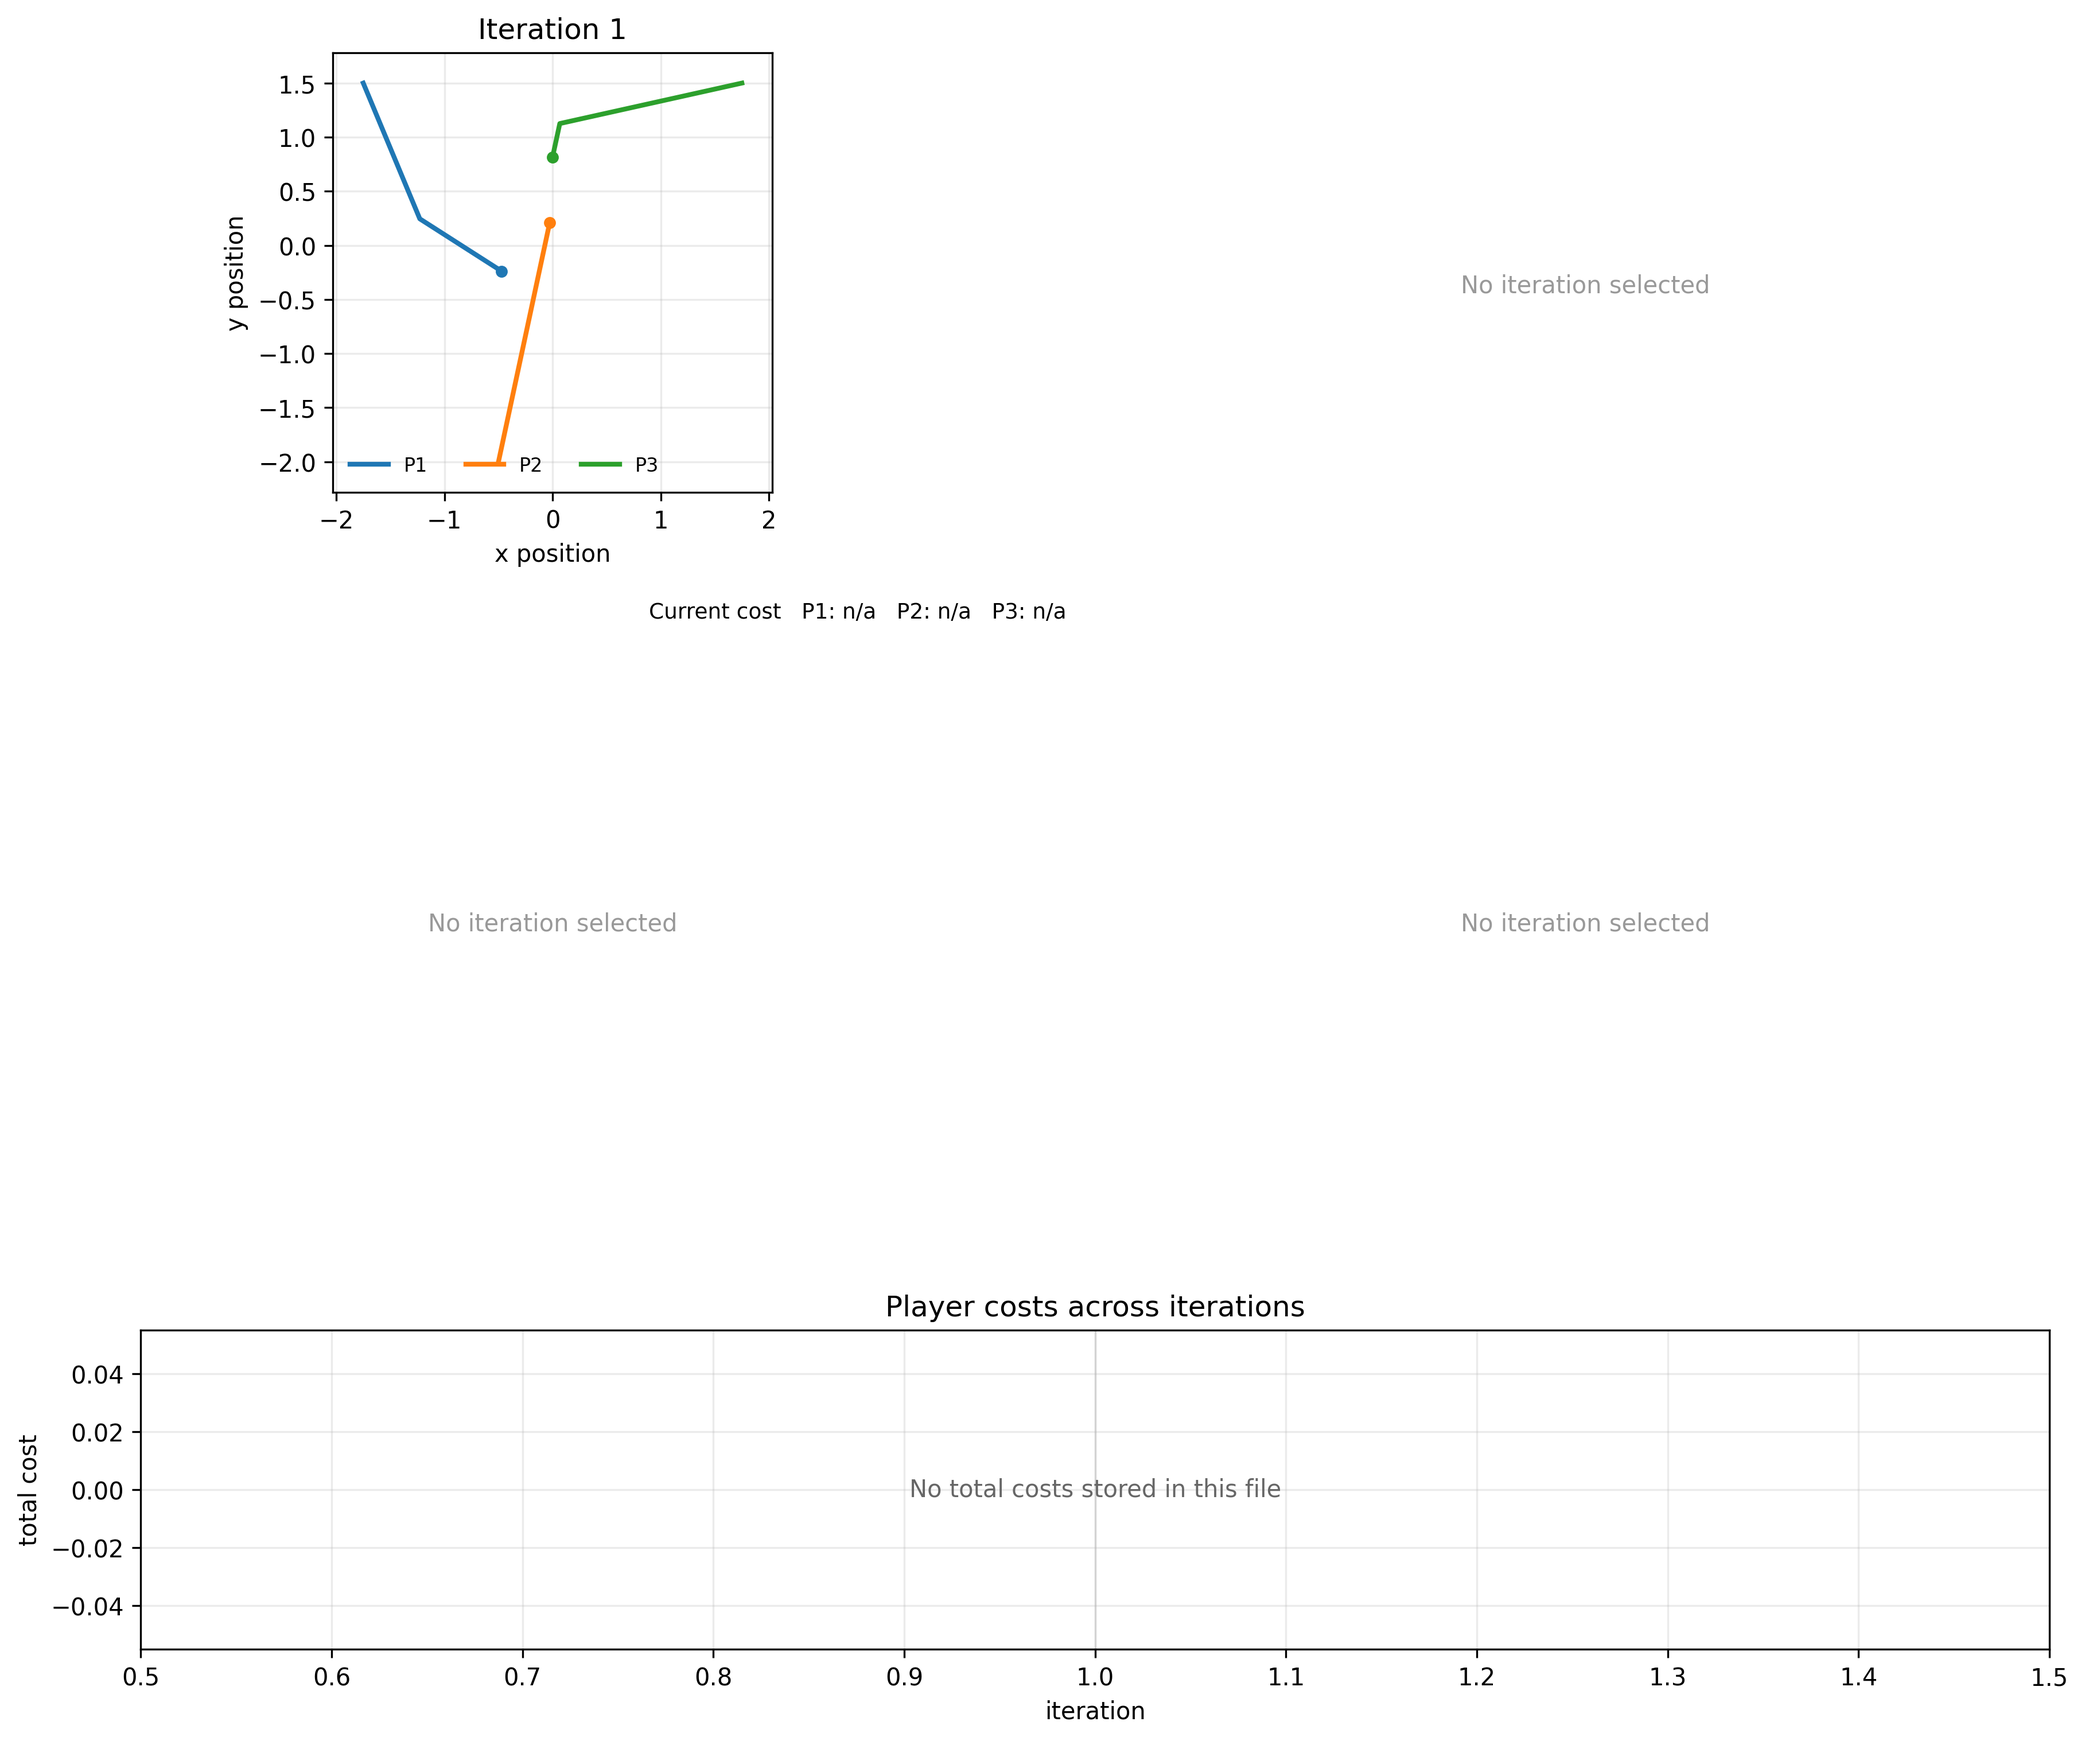
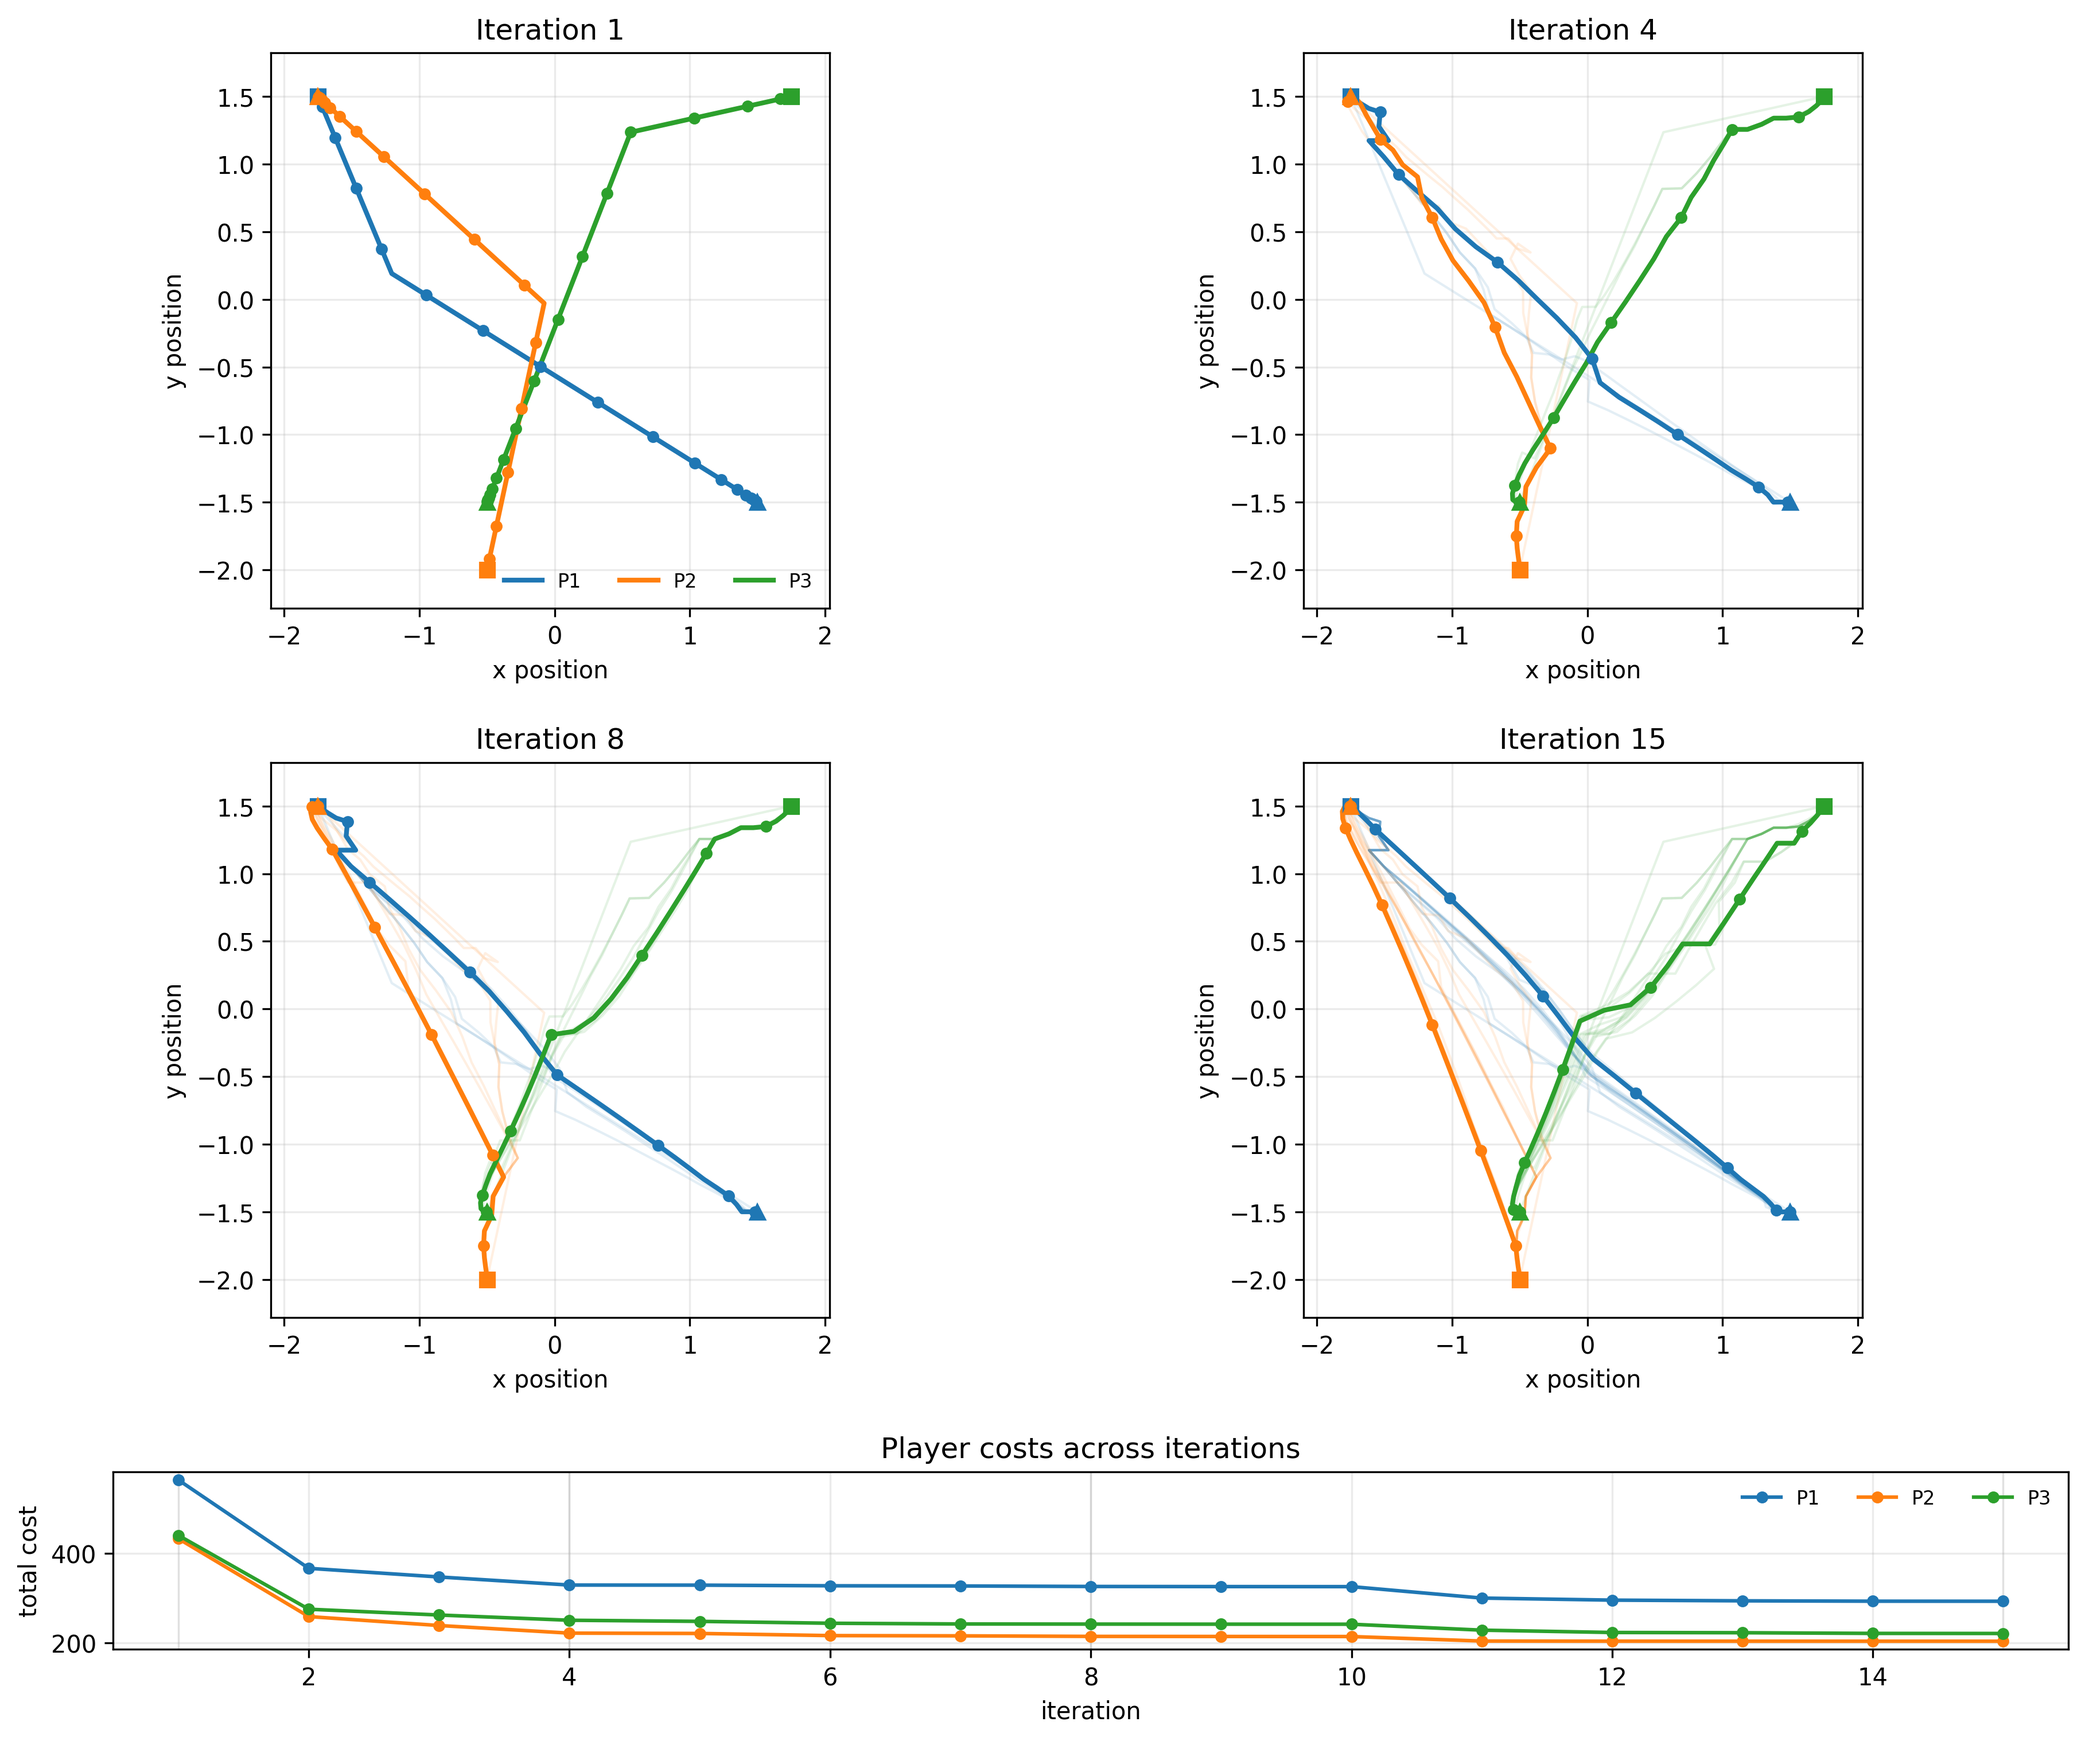
increase PATH iters

diff --git a/PlotLearnedIterations.py b/PlotLearnedIterations.py
@@ -12,6 +12,7 @@ import argparse
 from pathlib import Path
 
 import numpy as np
+import matplotlib.pyplot as plt
 from matplotlib.figure import Figure
 from matplotlib.ticker import MaxNLocator
 
@@ -73,14 +74,12 @@ def create_iteration_figure(learned_data, iterations, previous_alpha=0.12):
     lower, upper = positions.min(axis=0), positions.max(axis=0)
     padding = np.maximum(0.08 * (upper - lower), 0.1)
     figure = Figure(figsize=(12, 10), layout="constrained")
-    grid = figure.add_gridspec(3, 2, height_ratios=(1.0, 1.0, 0.5))
+    grid = figure.add_gridspec(3, 2, height_ratios=(1.0, 1.0, 0.25))
     for panel in range(4):
         cell = grid[panel // 2, panel % 2].subgridspec(
-            2, 1, height_ratios=(1.0, 0.13), hspace=0.02,
+            2, 1, height_ratios=(1.0, 0.05), hspace=0.02,
         )
         ax = figure.add_subplot(cell[0])
-        footer = figure.add_subplot(cell[1])
-        footer.set_axis_off()
         if panel >= len(iterations):
             ax.set_axis_off()
             ax.text(0.5, 0.5, "No iteration selected", transform=ax.transAxes,
@@ -88,6 +87,14 @@ def create_iteration_figure(learned_data, iterations, previous_alpha=0.12):
             continue
         number = iterations[panel]
         current = paths[number - 1]
+        times = np.asarray(learned_data.RawData[number - 1].t, dtype=float).reshape(-1)
+        if (len(times) != len(current) or not np.all(np.isfinite(times))
+                or np.any(np.diff(times) <= 0.0)):
+            raise ValueError(f"iteration {number} needs increasing timestamps aligned with its states")
+        marker_times = 0.5 * np.arange(np.floor(times[0] / 0.5) + 1,
+                                       np.ceil(times[-1] / 0.5))
+        marker_times = marker_times[(marker_times > times[0] + 1e-9)
+                                    & (marker_times < times[-1] - 1e-9)]
         for player in range(players):
             offset, color = player * nx, f"C{player}"
             for previous in paths[:number - 1]:
@@ -95,8 +102,24 @@ def create_iteration_figure(learned_data, iterations, previous_alpha=0.12):
                         linewidth=1.0, alpha=previous_alpha, zorder=1)
             ax.plot(current[:, offset], current[:, offset + 1], color=color,
                     linewidth=2.0, label=f"P{player + 1}", zorder=3)
-            ax.plot(current[-1, offset], current[-1, offset + 1], "o",
+            # Interpolate on the saved path if a half-second falls between samples.
+            marker_positions = np.column_stack([
+                np.interp(marker_times, times, current[:, offset + axis])
+                for axis in range(2)
+            ])
+            # Keep start/end locations reserved for their square/triangle markers,
+            # including when a player waits at one of those locations.
+            at_start = np.all(np.isclose(marker_positions, current[0, offset:offset + 2],
+                                         rtol=0.0, atol=1e-9), axis=1)
+            at_end = np.all(np.isclose(marker_positions, current[-1, offset:offset + 2],
+                                       rtol=0.0, atol=1e-9), axis=1)
+            marker_positions = marker_positions[~(at_start | at_end)]
+            ax.plot(marker_positions[:, 0], marker_positions[:, 1], "o",
                     color=color, markersize=4, zorder=4)
+            ax.plot(current[0, offset], current[0, offset + 1], "s",
+                    color=color, markersize=6, zorder=4)
+            ax.plot(current[-1, offset], current[-1, offset + 1], "^",
+                    color=color, markersize=6, zorder=4)
         ax.set(xlim=(lower[0] - padding[0], upper[0] + padding[0]),
                ylim=(lower[1] - padding[1], upper[1] + padding[1]),
                xlabel="x position", ylabel="y position", title=f"Iteration {number}")
@@ -108,20 +131,21 @@ def create_iteration_figure(learned_data, iterations, previous_alpha=0.12):
             f"P{player + 1}: {value:.2f}" if np.isfinite(value) else f"P{player + 1}: n/a"
             for player, value in enumerate(costs[number - 1])
         )
-        footer.text(0.98, 0.5, f"Current cost   {cost_text}",
-                    transform=footer.transAxes, ha="right", va="center", fontsize=9)
+        # footer.text(0.98, 0.5, f"Current cost   {cost_text}",
+        #             transform=footer.transAxes, ha="right", va="center", fontsize=9)
 
     ax_cost = figure.add_subplot(grid[2, :])
     numbers = np.arange(1, len(paths) + 1)
     for player in range(players):
         ax_cost.plot(numbers, costs[:, player], "-o", color=f"C{player}",
-                     linewidth=1.5, markersize=4)
+                     linewidth=1.5, markersize=4, label=f"P{player + 1}", zorder=2)
     for number in iterations:
         ax_cost.axvline(number, color="0.7", linewidth=0.8, alpha=0.4, zorder=0)
     ax_cost.set(xlabel="iteration", ylabel="total cost", title="Player costs across iterations",
                 xlim=(0.5, len(paths) + 0.5))
     ax_cost.xaxis.set_major_locator(MaxNLocator(integer=True))
     ax_cost.grid(True, alpha=0.25)
+    ax_cost.legend(loc="best", ncol=players, frameon=False, fontsize=8)
     if not np.any(np.isfinite(costs)):
         ax_cost.text(0.5, 0.5, "No total costs stored in this file",
                      transform=ax_cost.transAxes, ha="center", va="center", color="0.4")
@@ -142,9 +166,9 @@ def save_iteration_figure(
 def main():
     parser = argparse.ArgumentParser(description=__doc__,
                                      formatter_class=argparse.RawDescriptionHelpFormatter)
-    parser.add_argument("--data", type=Path, default=Path("LearnedData.pkl"),
+    parser.add_argument("--data", type=Path, default=Path("./Results/LearnedData.pkl"),
                         help="saved data file (default: LearnedData.pkl)")
-    parser.add_argument("--iterations", nargs="+", type=int,
+    parser.add_argument("--iterations", nargs="+", type=int, default=[1, 4, 8, 15],
                         help="up to four iteration numbers, starting at 1; defaults to evenly spaced iterations")
     parser.add_argument("--output", type=Path, default=Path("Results/iteration_comparison.png"))
     parser.add_argument("--previous-alpha", type=float, default=0.12)
@@ -158,6 +182,7 @@ def main():
         output = save_iteration_figure(learned_data, iterations, args.output, args.previous_alpha)
     except (OSError, ValueError) as error:
         parser.error(str(error))
+    plt.show()
     print(f"Saved {output}; selected iterations: {', '.join(map(str, iterations))}")
     if not np.all(np.isfinite(costs)):
         print("Some total costs are missing in the saved data; shown as n/a and gaps.")

diff --git a/DGSolver.py b/DGSolver.py
@@ -2022,9 +2022,9 @@ class DGSolver:
         PATHSolver.c_api_License_SetString("1259252040&Courtesy&&&USR&GEN2035&5_1_2026&1000&PATH&GEN&31_12_2035&0_0_0&6000&0_0")
         status, z, info = PATHSolver.solve_mcp(F, J, lb, ub, z0,
             nnz=nnz, output="{output}", convergence_tolerance=tol,
-            nms="{nms}", crash_nbchange_limit=25, major_iteration_limit=250,
-            minor_iteration_limit=5000, cumulative_iteration_limit=50000,
-            restart_limit=50)
+            nms="{nms}", crash_nbchange_limit=50, major_iteration_limit=500,
+            minor_iteration_limit=10000, cumulative_iteration_limit=100000,
+            restart_limit=100)
         return z, status == PATHSolver.MCP_Solved, info.residual, status
         """)
         

diff --git a/LDG_Simulation_aux.py b/LDG_Simulation_aux.py
@@ -16,7 +16,7 @@ def save_learned_data(learned_data, path="LearnedData.pkl"):
     return path
 
 
-def load_learned_data(path="LearnedData.pkl"):
+def load_learned_data(path="./Results/LearnedData.pkl"):
     """Load learned simulation data from a trusted pickle file."""
     path = Path(path)
     with path.open("rb") as file:
